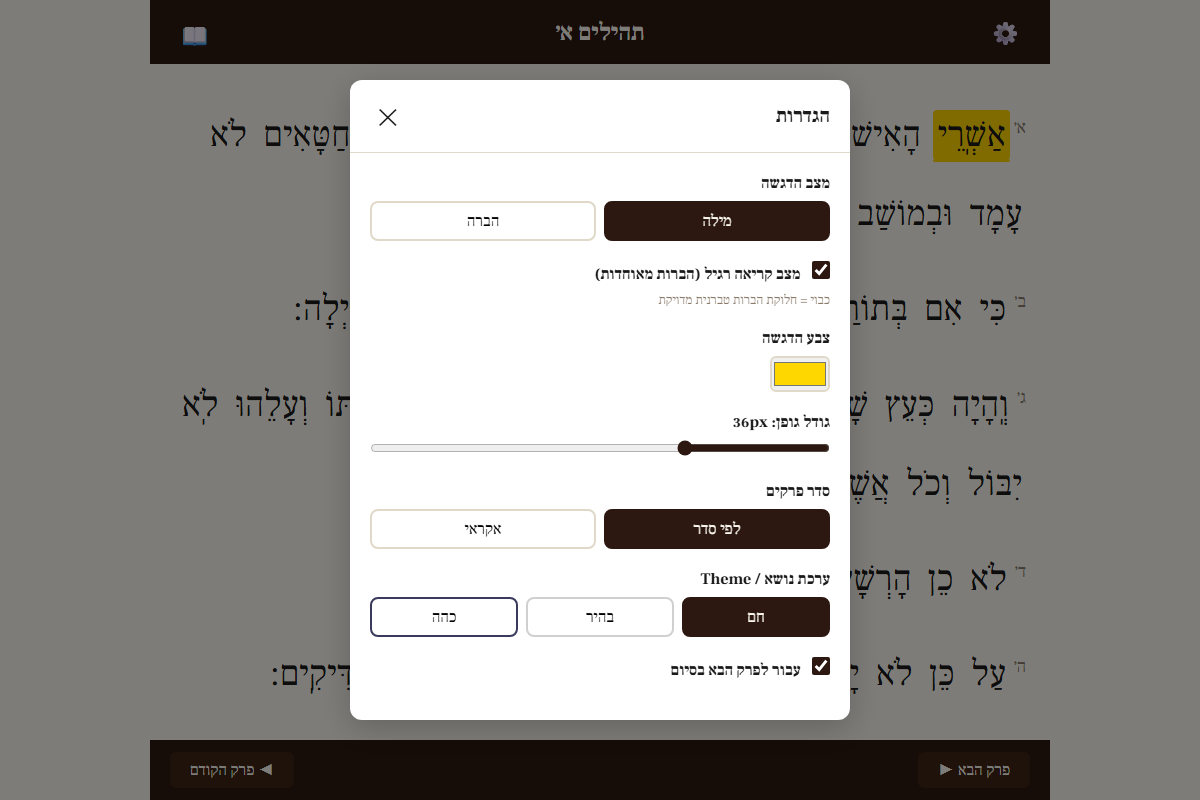
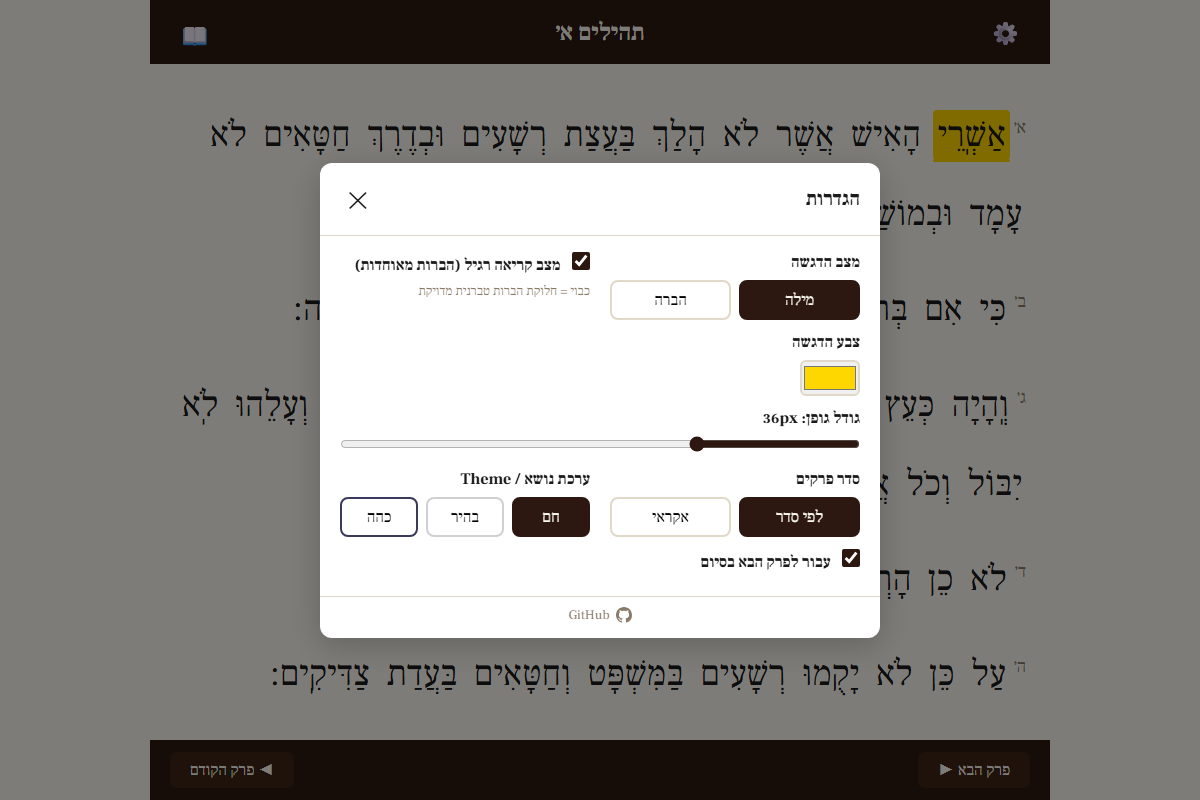
feat: add GitHub link in settings footer, two-column settings layout
- Settings panel uses CSS grid 2-column layout (single on mobile)
- GitHub icon + link in panel footer
- Updated screenshots

Changed region(s): [[0.2467, 0.0938, 0.74, 0.9062]]

diff --git a/src/styles/main.css b/src/styles/main.css
@@ -219,10 +219,12 @@ body {
   background: var(--panel-bg);
   border-radius: 12px;
   width: 90%;
-  max-width: 500px;
-  max-height: 80vh;
+  max-width: 560px;
+  max-height: 85vh;
   overflow-y: auto;
   box-shadow: 0 8px 32px rgba(0, 0, 0, 0.2);
+  display: flex;
+  flex-direction: column;
 }
 
 .panel-header {
@@ -242,12 +244,23 @@ body {
 }
 
 .panel-body {
-  padding: 20px;
+  padding: 16px 20px;
+}
+
+#settings-panel .panel-body {
+  display: grid;
+  grid-template-columns: 1fr 1fr;
+  gap: 12px 20px;
 }
 
 /* ===== Settings ===== */
 .setting-group {
-  margin-bottom: 20px;
+  margin-bottom: 0;
+}
+
+/* Let font-size slider span full width since range inputs need room */
+.setting-group:has(input[type="range"]) {
+  grid-column: 1 / -1;
 }
 
 .setting-group > label {
@@ -304,6 +317,33 @@ input[type="checkbox"] {
   height: 18px;
   margin-left: 8px;
   accent-color: var(--header-bg);
+}
+
+.panel-footer {
+  padding: 10px 20px;
+  border-top: 1px solid var(--border-color);
+  text-align: center;
+}
+
+.github-link {
+  display: inline-flex;
+  align-items: center;
+  gap: 6px;
+  color: var(--verse-num-color);
+  text-decoration: none;
+  font-size: 13px;
+  transition: color 0.15s;
+}
+
+.github-link:hover {
+  color: var(--text-color);
+}
+
+/* ===== Responsive — single-column settings on mobile ===== */
+@media (max-width: 500px) {
+  #settings-panel .panel-body {
+    grid-template-columns: 1fr;
+  }
 }
 
 /* ===== Chapter Grid ===== */

diff --git a/index.html b/index.html
@@ -79,6 +79,12 @@
           </label>
         </div>
       </div>
+      <div class="panel-footer">
+        <a href="https://github.com/Arithmomaniac/tehillim-reader" target="_blank" rel="noopener" class="github-link">
+          <svg height="16" width="16" viewBox="0 0 16 16" fill="currentColor" aria-hidden="true"><path d="M8 0C3.58 0 0 3.58 0 8c0 3.54 2.29 6.53 5.47 7.59.4.07.55-.17.55-.38 0-.19-.01-.82-.01-1.49-2.01.37-2.53-.49-2.69-.94-.09-.23-.48-.94-.82-1.13-.28-.15-.68-.52-.01-.53.63-.01 1.08.58 1.23.82.72 1.21 1.87.87 2.33.66.07-.52.28-.87.51-1.07-1.78-.2-3.64-.89-3.64-3.95 0-.87.31-1.59.82-2.15-.08-.2-.36-1.02.08-2.12 0 0 .67-.21 2.2.82.64-.18 1.32-.27 2-.27.68 0 1.36.09 2 .27 1.53-1.04 2.2-.82 2.2-.82.44 1.1.16 1.92.08 2.12.51.56.82 1.27.82 2.15 0 3.07-1.87 3.75-3.65 3.95.29.25.54.73.54 1.48 0 1.07-.01 1.93-.01 2.2 0 .21.15.46.55.38A8.013 8.013 0 0016 8c0-4.42-3.58-8-8-8z"/></svg>
+          GitHub
+        </a>
+      </div>
     </div>
   </div>
 
